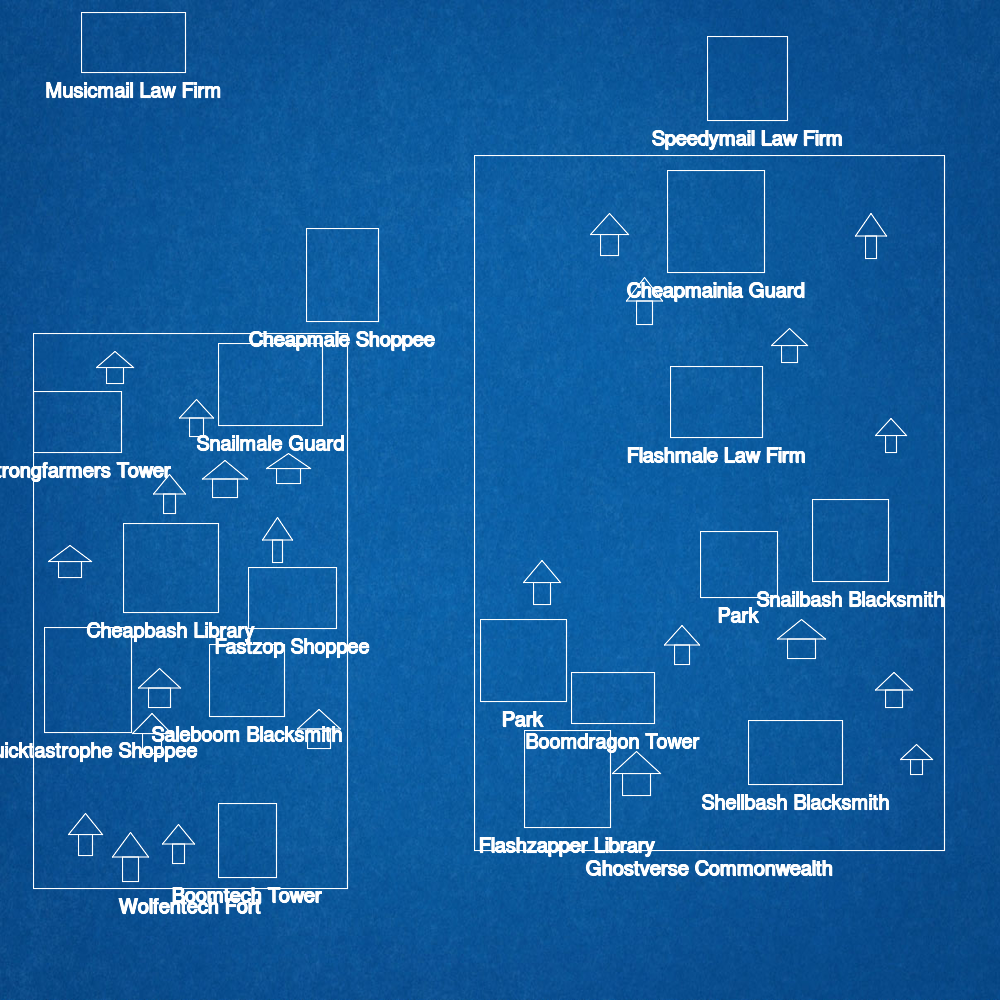
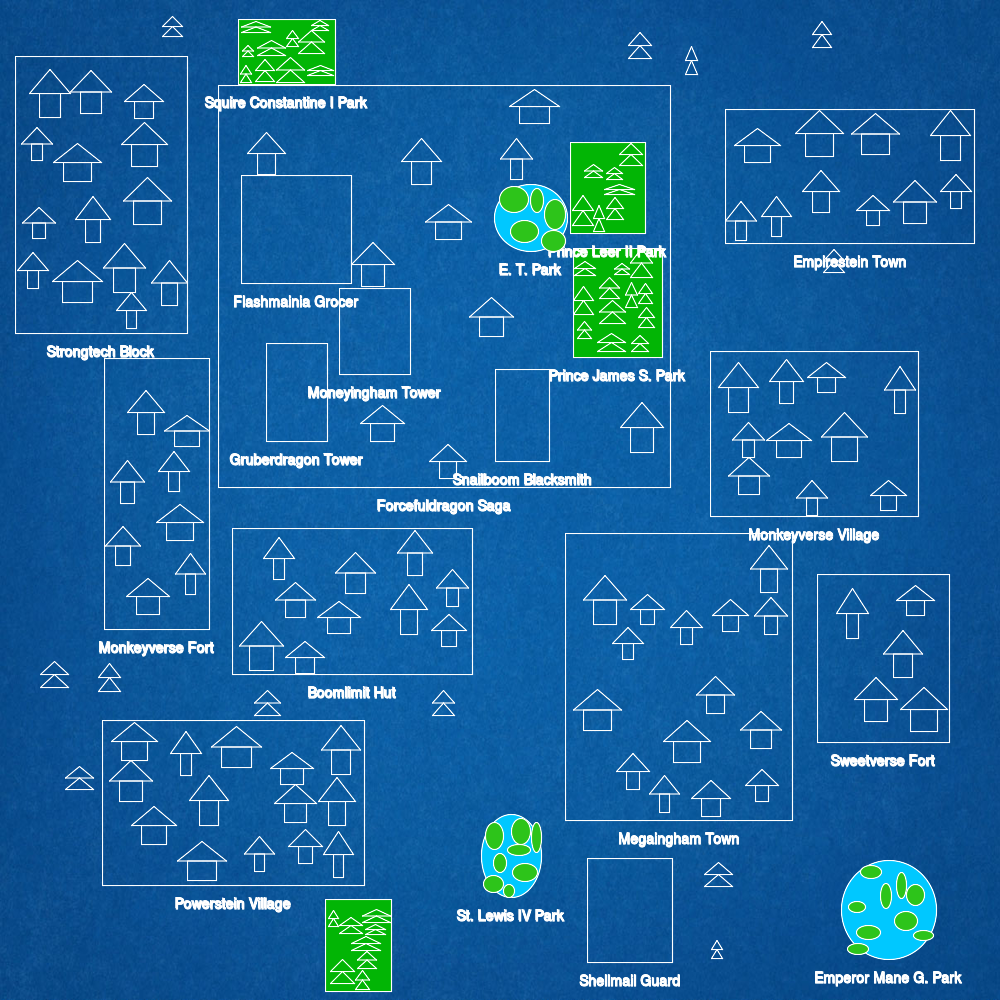
Ponds

diff --git a/index.js b/index.js
@@ -55,7 +55,6 @@ var arr4= [
   " Hut",
   " Town",
   " Fort",
-  " Perserve",
   " Village",
   " Block"
 ]
@@ -89,13 +88,61 @@ var tp3 = [
   " Grocer",
   " Shop",
   " Guard",
-  " Law Firm",
+  " Barraster",
   " Library",
   " School",
-  " Horse Rental"
+  " Horse Rental",
+  " Armory",
+  " Leatherworkers",
+  " Bros. Shoppee"
 ]
+var pk1 = [ // park name bot
+  "Saint ",
+  "St. ",
+  "Emperor ",
+  "King ",
+  "Squire ",
+  "Overlord ",
+  "Priest ",
+  "Prince ",
+  ""
+];
+var pk2 = [
+  "James ",
+  "Jhon Ung ",
+  "E. ",
+  "Constantine ",
+  "Bill ",
+  "Edward ",
+  "Leer ",
+  "Great ",
+  "Mink ",
+  "Lewis ",
+  "Mane "
+];
+var pk3 = [
+  "II",
+  "I",
+  "III",
+  "V",
+  "IV",
+  "M.",
+  "G.",
+  "Rowling",
+  "A.",
+  "S.",
+  "R.",
+  "T."
+];
+var pk4 = [
+  " Park",
+  " Preserve",
+  " Green",
+  " Square",
+  " Block"
+];
 
-var image = gm('./resources/blueprint.jpg').noProfile().resize(1000,1000,"!").fontSize(20);
+var image = gm('./resources/blueprint.jpg').noProfile().resize(1000,1000,"!").fontSize(14);
 //var rooms = [
 //]
 /*var features = {
@@ -127,15 +174,77 @@ var houseJson = {
   "subgroups": []
 };
 
+
 var tpJson = {
   "name": "Trading Post",
   "size": new Size(60,110,60,110),
   "ammount": new Ammount(1,4),
   "nameCallback": function(){
-    return tp1[randi(0,tp1.length - 1)] + tp2[randi(0,tp2.length - 1)] + tp3[randi(0,arr4.length - 1)];
+    return tp1[randi(0,tp1.length - 1)] + tp2[randi(0,tp2.length - 1)] + tp3[randi(0,tp3.length - 1)];
   },
   "subgroups": []
-}
+};
+
+var treeJson = {
+  "name": "Tree", // how to fail json
+  "size": new Size(10,30,10,30),
+  "ammount": new Ammount(10,20),
+  "draw": function(name,x,y,w,h){
+    log(name,x,y,w,h);
+    var halfupdown = (h/2)+y
+    var halfleftright = (w/2)+x
+    var housein = 10;
+
+    image.stroke("#ffffff").fill('none')
+      //.drawRectangle(x,y,x+w,y+h) // debug
+      .drawLine(x,halfupdown,halfleftright,y) // roof / line
+      .drawLine(x+w,halfupdown,halfleftright,y) // roof \ line
+      .drawLine(x+w,halfupdown,x,halfupdown) // roof _ line
+      .drawLine(x,y+h,halfleftright,halfupdown) // roof / line
+      .drawLine(x+w,y+h,halfleftright,halfupdown) // roof \ line
+      .drawLine(x,y+h,x+w,y+h); // roof _ line
+  },
+  "subgroups": []
+};
+
+var parkJson = {
+  "name": "Park",
+  "size": new Size(60,110,60,110),
+  "ammount": new Ammount(1,4),
+  "draw": drawPark,
+  "nameCallback": function(){
+    return pk1[randi(0,pk1.length - 1)] + pk2[randi(0,pk2.length - 1)] + pk3[randi(0,pk3.length - 1)] + pk4[randi(0,[pk4].length - 1)];
+  },
+  "subgroups": [
+    treeJson
+  ]
+};
+
+var lillyJson = {
+  "name": "Lilly Pad", // how to fail json
+  "size": new Size(10,30,10,30),
+  "ammount": new Ammount(10,20),
+  "draw": function(name,x,y,w,h){
+    log(name,x,y,w,h);
+
+    image.stroke("#ffffff").fill('#2DC41A')
+      .drawEllipse(x+(w/2),y+(h/2),w/2,h/2);
+  },
+  "subgroups": []
+};
+
+var pondJson = {
+  "name": "Pond",
+  "size": new Size(60,110,60,110),
+  "ammount": new Ammount(1,4),
+  "draw": drawPond,
+  "nameCallback": function(){
+    return pk1[randi(0,pk1.length - 1)] + pk2[randi(0,pk2.length - 1)] + pk3[randi(0,pk3.length - 1)] + pk4[randi(0,[pk4].length - 1)];
+  },
+  "subgroups": [
+    lillyJson
+  ]
+};
 
 var features = [ // list of building groups
 
@@ -167,12 +276,8 @@ var features = [ // list of building groups
       },
       tpJson,
       houseJson,
-      {
-        "name": "Park", //
-        "size": new Size(60,110,60,110),
-        "ammount": new Ammount(1,4),
-        "subgroups": []
-      }
+      parkJson,
+      pondJson
     ]
   },
   {
@@ -187,7 +292,10 @@ var features = [ // list of building groups
       tpJson
     ]
   },
-  tpJson
+  pondJson,
+  treeJson,
+  tpJson,
+  parkJson
 ]
 var rooms = [ // TODO this should probably end up being a class with a .draw()
   //{"name": "Castle", "position": {"x":2,"y":2,"x2":10,"y2":50}, "subgroups": []} // subgroups position is NOT relative to main group position
@@ -278,16 +386,29 @@ function Ammount(a,b){
 Ammount.prototype.get = function(){
   return randi(this.ammount[0],this.ammount[1])
 }
-
-function drawRoom(name,x,y,w,h){
+function drawPark(name,x,y,w,h){
+  drawRoom(name,x,y,w,h,undefined,"#02B505");
+}
+function drawRoom(name,x,y,w,h,borderColor,fillColor){
   log(name,x,y,w,h);
-  image.stroke("#ffffff").fill('none')
+  var bc = "#ffffff";
+  var fc = 'none';
+  if(borderColor) bc = borderColor;
+  if(fillColor) fc = fillColor;
+  image.stroke(bc).fill(fc)
     .drawRectangle(x,y,x+w,y+h)
   //  .drawText(((w/2)+x)-500,((h+10)+y)-500,name,'Center');
   drawCenteredText(name,(w/2)+x,(h+20)+y);
 }
+function drawPond(name,x,y,w,h){
+  log(name,x,y,w,h);
+  image.stroke('#ffffff').fill('#00C8FF')
+    .drawEllipse(x+(w/2),y+(h/2),w/2,h/2);
+  //  .drawText(((w/2)+x)-500,((h+10)+y)-500,name,'Center');
+  drawCenteredText(name,(w/2)+x,(h+20)+y);
+}
 function drawCenteredText(text,x,y){
-  image.fill('#ffffff').drawText(x-500,y-500,text,'Center');
+  image.fill('#ffffff').stroke('#ffffff').drawText(x-500,y-500,text,'Center');
 }
 function save(){
   image
